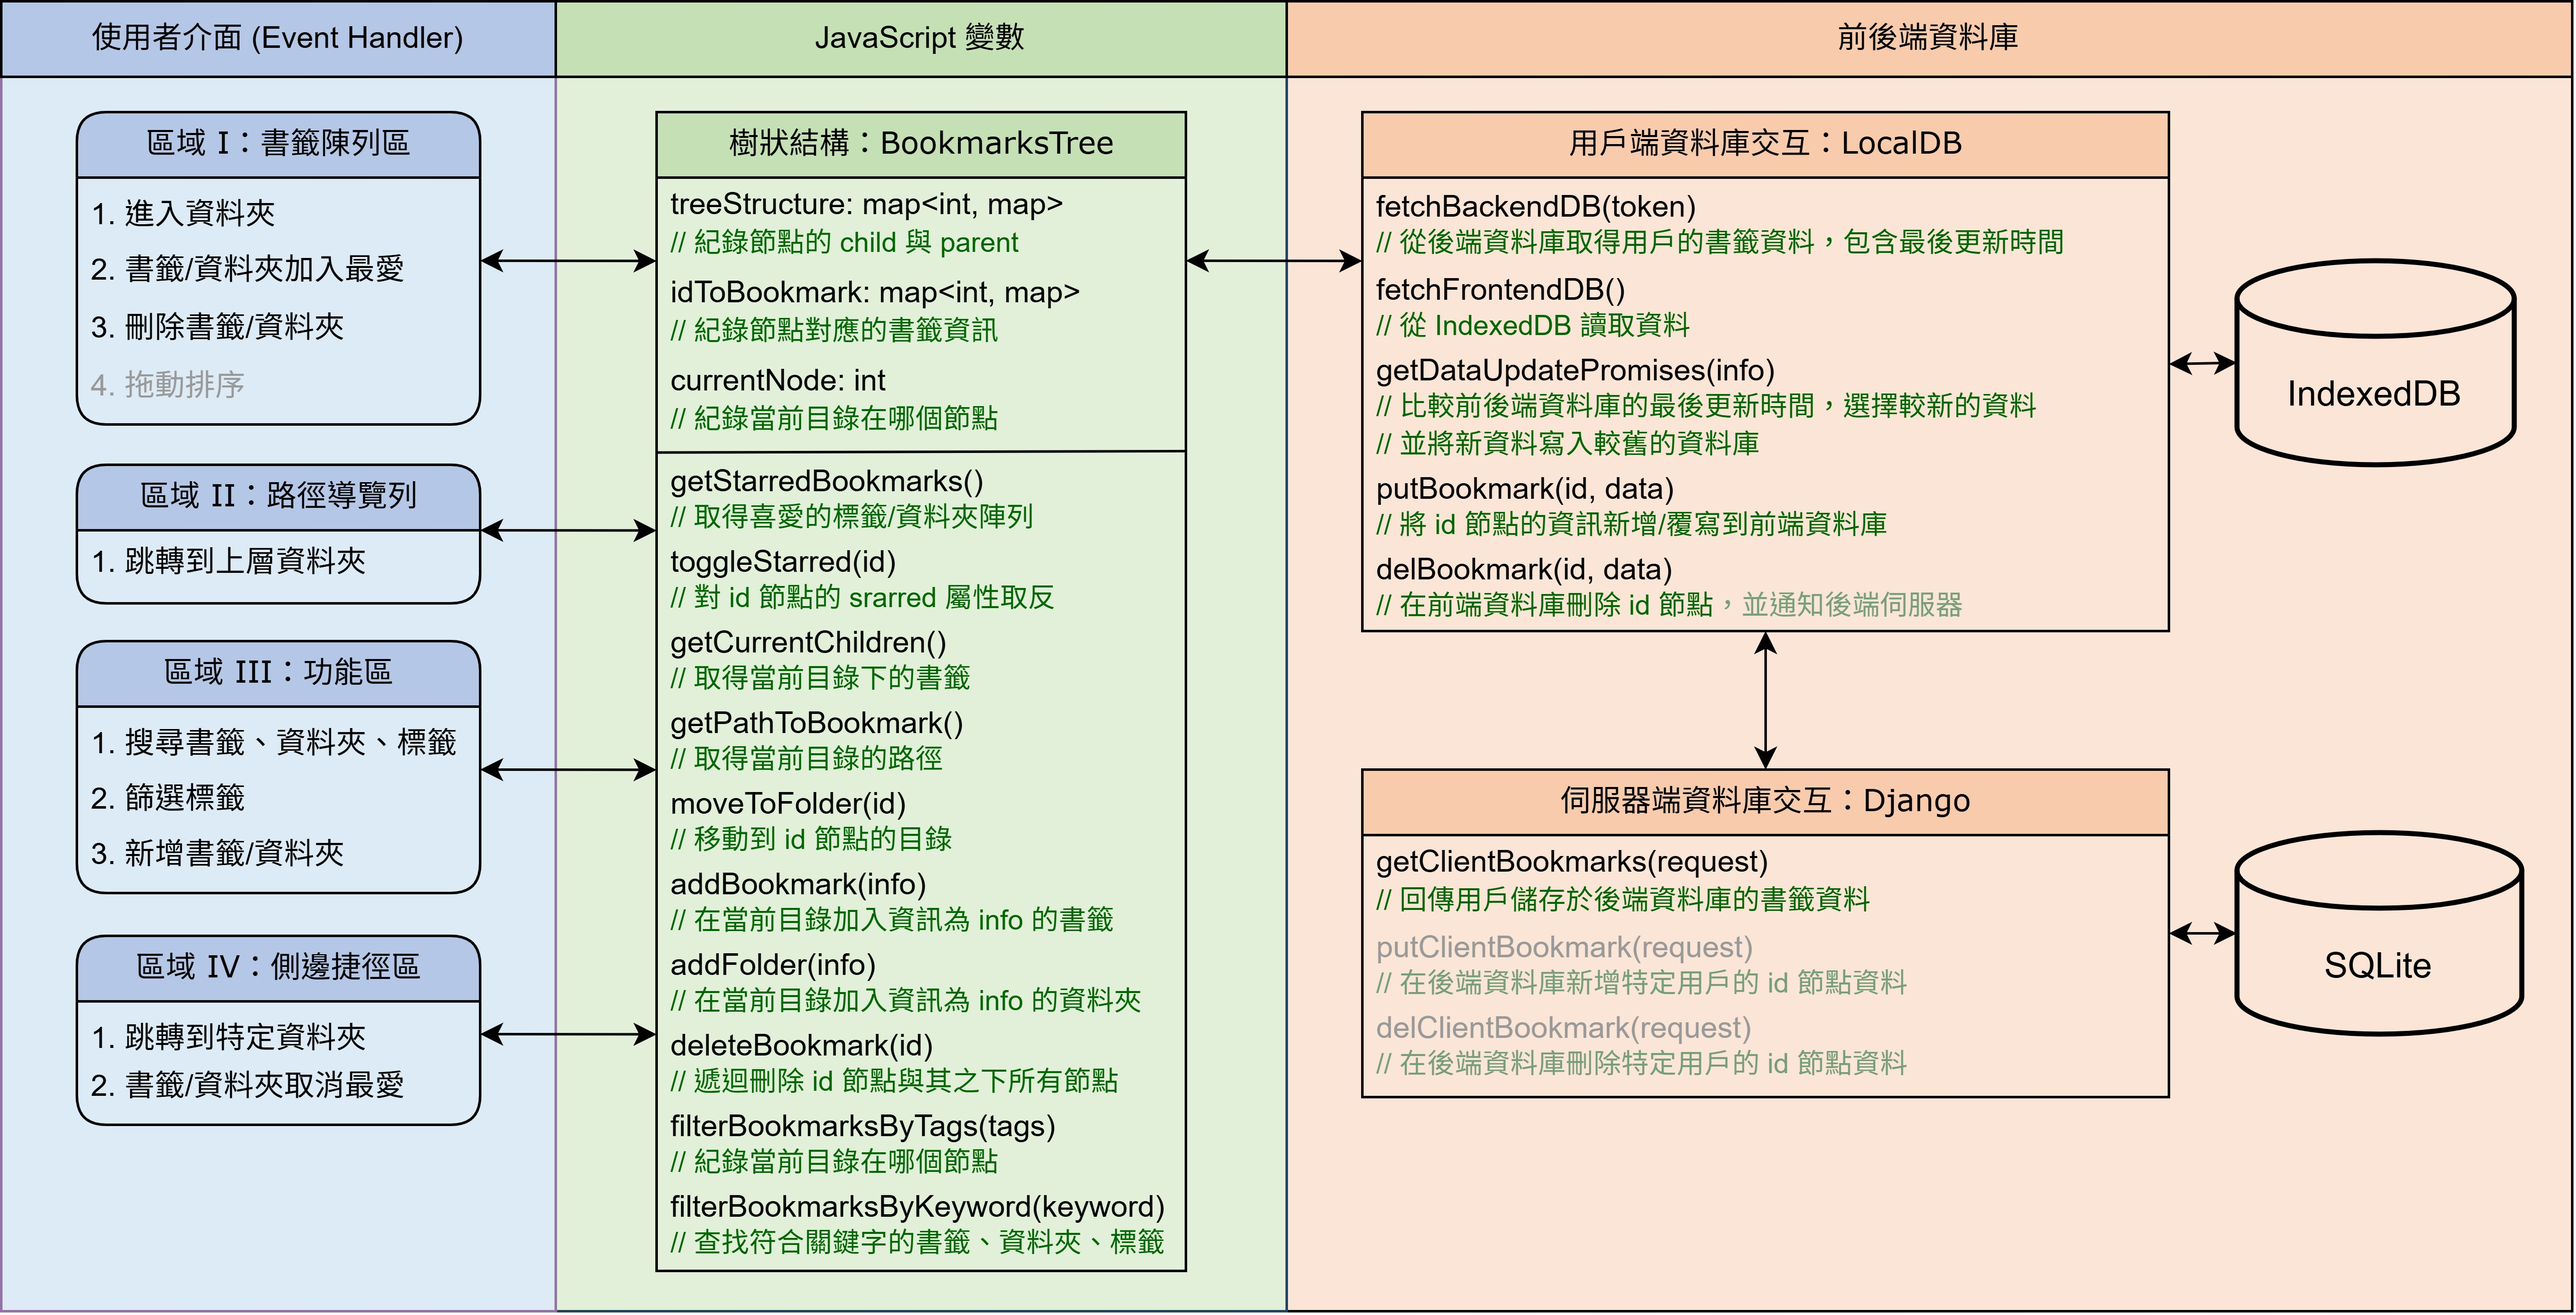
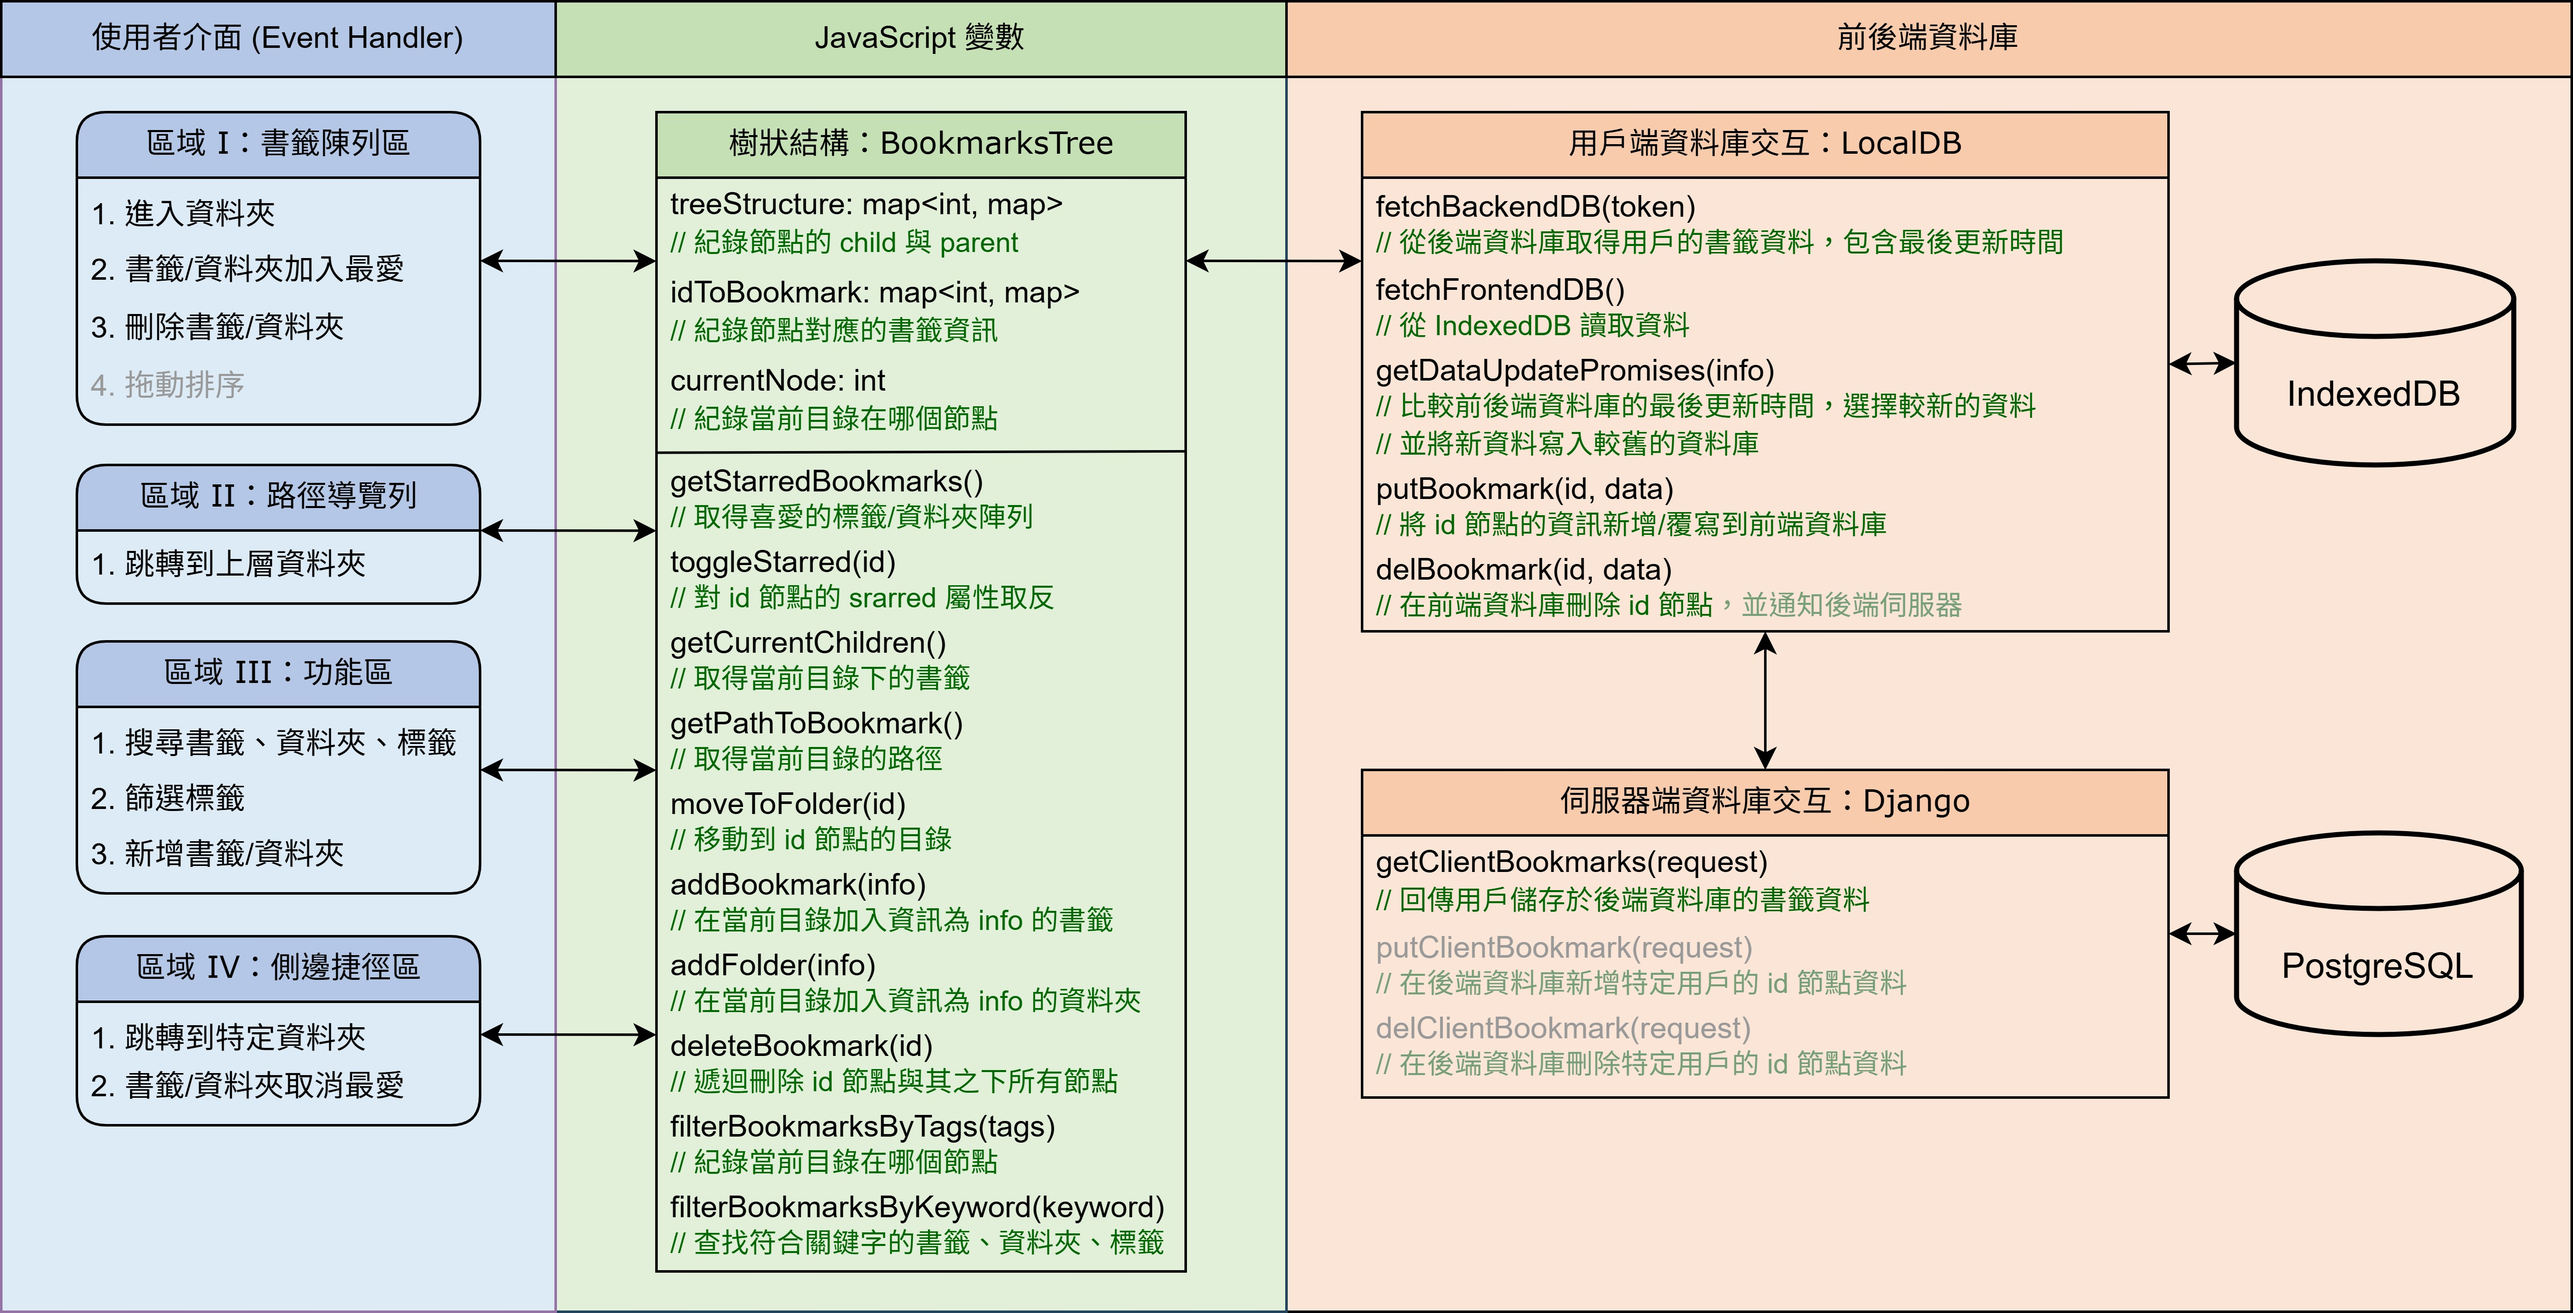
modify Week07.md

diff --git a/HW_Report/Week07.md b/HW_Report/Week07.md
@@ -1,23 +1,23 @@
 # 進度報告 - Team 15, Week 7
 
-在這次作業中，我們將記錄標籤/資料夾結構的 `BookmarksTree` 儲存到前端資料庫 [IndexedDB](https://developer.mozilla.org/zh-TW/docs/Web/API/IndexedDB_API)，讓用戶在重啟瀏覽器後仍能保留內容。此外，我們也使用 Django 搭配 PostgreSQL 在後端儲存用戶書籤，為下週開發 **跨裝置同步** 功能做準備。
+在這次作業中，我們將記錄標籤/資料夾結構的 `BookmarksTree` 儲存到前端資料庫 [IndexedDB](https://developer.mozilla.org/zh-TW/docs/Web/API/IndexedDB_API)，讓用戶在重啟瀏覽器後仍能保留內容。此外，我們也使用 Django 搭配 PostgreSQL 在後端儲存用戶書籤，為後續開發 **跨裝置同步** 功能做準備。
 
-在 UI/UX 改進部分，我們嘗試基於 [Swapy](https://github.com/TahaSh/swapy)，讓書籤可以像手機 App 一樣透過拖曳改變順序。此功能目前已能在頁面上運作，但尚未與前後端資料庫串接，因此暫時位於 GitHub 的另一個 Branch：[draggable](https://github.com/yoyoisaman/Team15/tree/draggable)。
+在 UI/UX 改進部分，我們嘗試基於 [Swapy](https://github.com/TahaSh/swapy)，讓書籤可以像手機 App 一樣透過拖曳改變順序。此功能目前已能在頁面上運作，但尚未與前後端資料庫串接，因此暫時放在 GitHub branch [GitHub branch](https://github.com/yoyoisaman/Team15/tree/draggable)。
 
 
 ## 課內技術練習
 
-本專案目前的整體架構如下圖（淺色文字代表尚未完成）。我們這週實作圖中右方橘色區塊的「前後端資料庫」，以下將分為講解 **前端資料庫（IndexedDB）** 與 **後端資料庫（PostgreSQL）** 兩大部分。
+本專案目前的整體架構如下圖（淺色文字代表尚未完成）。我們這兩週實作了圖中橘色區塊的「前後端資料庫」，以下將分為 **前端資料庫（IndexedDB）** 與 **後端資料庫（PostgreSQL）** 兩大部分說明。
 
 ![flow.jpg](report_imgs/Week07/flow.jpg)
 
 ### 後端資料庫（PostgreSQL）
 
-我們使用上課教的 Django 建立後端伺服器，並將用戶的書籤資料儲存於 PostgreSQL 資料庫中。
+我們使用課堂所教的 Django 架設後端伺服器，並將用戶的書籤資料儲存於 PostgreSQL 資料庫中。
 
-當用戶進入網頁，前端會向後端伺服器發送一個初始化請求，伺服器會根據用戶的 `token` 回傳相對應的書籤資料與最後修改時間（用以比對前端資料庫是否過舊）。這使得用戶得以跨裝置使用我們的網站，因為每次更動都會透過伺服器儲存，並同步到所有裝置上。
+當用戶進入網頁時，前端會向後端伺服器發送初始化請求，伺服器根據用戶的 `token` 回傳對應的書籤資料與最後修改時間（用以比對前端資料庫是否過舊）。這讓用戶可以跨裝置使用網站，因為每次操作都會儲存到伺服器，並同步到所有裝置上。
 
-後端資料庫包含兩個表格，一個紀錄用戶的最後上傳時間，另一個則記錄用戶的書籤資料，格式如下：
+後端資料庫包含兩個表格，一個紀錄用戶的最後上傳時間，另一個紀錄用戶的書籤資料，格式如下：
 
 | 欄位名稱    | 型別           | 說明               |
 |-------------|----------------|--------------------|
@@ -30,29 +30,30 @@
 | parent_id   | INTEGER         | 節點的 parent      |
 | children_id | JSON            | 節點的 child       |
 
-[Views.py](../backend/api/views.py) 會調用這個表格的資料，並轉換為對應 `BookmarksTree` 物件中變數 `treeStructure` 與 `bookmarks` 的格式，附加上最後修改時間後回傳給使用者。
+[Views.py](../backend/api/views.py) 會調用這個表格的資料，並轉換為 `BookmarksTree` 物件中 `treeStructure` 與 `bookmarks` 的格式，附加最後修改時間後回傳給使用者。
 
 ### 前端資料庫（IndexedDB）
 
-IndexedDB 是瀏覽器內建的本地端資料庫，它可以儲存的資料量比 localStorage 多非常多，而且支援索引，能夠快速查詢特定資料。由於 `BookmarksTree` 包含書籤的詳細資訊，資料量可能很大，因此我們採用 IndexedDB 在用戶本地端儲存書籤資訊。
+IndexedDB 是瀏覽器內建的本地端資料庫，可儲存比 localStorage 更多的資料，且支援索引功能，能快速查詢特定資料。由於 `BookmarksTree` 包含大量書籤資訊，因此我們採用 IndexedDB 在用戶本地端儲存書籤資料。
 
-在使用者進入網頁時，網頁會向後端請求書籤資料，並嘗試讀取 IndexedDB 中的 `treeStructure` 與 `bookmarks` 兩個表格。在比對最後修改時間後，較新的資料會被傳入 `BookmarksTree` 的 constructor 中，作為書籤的初始狀態。同時，如果 IndexedDB 的資料較舊，將會進行更新。
+當使用者進入網頁時，前端會向後端請求書籤資料，並讀取 IndexedDB 中的 `treeStructure` 與 `bookmarks` 表格。在比對最後修改時間後，會將較新的資料傳入 `BookmarksTree` 的 constructor 中，作為書籤的初始狀態。如果 IndexedDB 中的資料較舊或不存在，系統也會自動更新。
 
-由於這週我們著重在建立 Django 伺服器與前後端溝通，此部分尚未最佳化。在課程進行到資料庫部分時，我們會將會會引入多用戶的帳號與 `token` 機制，由伺服器方主動驗證用戶端的資料是否過舊，從而節省回傳的流量與延遲。
+由於本週重點在於建立 Django 伺服器與前後端溝通，此部分尚未進行最佳化。未來課程進行到資料庫部分後，我們將在伺服器端導入多用戶帳號與 `token` 機制，讓伺服器主動驗證前端資料是否過舊，進一步節省流量與降低延遲。
 
 ## 額外相關技術
 
-### PostgreSQL
+### 1. PostgreSQL
 
-Django 預設使用 SQLite 作為後端資料庫，然而，SQLite 作為輕量級資料庫，不允許多用戶寫入，因而限制了擴展性，對於多用戶應用並不是好選擇。
+Django 預設使用 SQLite 作為後端資料庫，但由於 SQLite 屬於輕量級資料庫，不支援多用戶同時寫入，擴展性有限，因此不適合多用戶應用。
 
-此外，從記錄用戶書籤資料的表格結構中我們可以看出，其需要由兩個欄位 `(token,bid)` 去組合 Composite Primary Key 才能保證唯一。但 SQLite 並不支援 Composite Primary Key 的使用。
+PostgreSQL 除了支援多用戶寫入，還加強了對 JSON 資料型態的處理，因此我們選擇使用 PostgreSQL 取代 Django 預設的 SQLite 作為後端資料庫。為了方便測試，我們使用 [pgAdmin 4](https://www.pgadmin.org/) 作為 GUI 工具，並在 `docker-compose.yml` 中預設註解（關閉），如有需要可以自行啟用。
 
-基於上述兩個理由，我們採用能解決上述兩個問題且效率更高的 PostgreSQL 作為後端資料庫。為了便於測試，我們使用pgadmin4作為GUI，在 `docker-compose.yml` 中預設被註解，若有需要可以啟用。
 
-### 拖動排序功能
+### 2. 拖曳排序功能
 
-![draggable](draggable.gif)
+我們在另一個 [Branch](https://github.com/yoyoisaman/Team15/tree/draggable) 中，基於 [Swapy](https://github.com/TahaSh/swapy) 實作了拖曳排序功能，讓書籤可以像手機 App 一樣自由調整順序，如下圖所示。然而，由於此功能需要大幅重構現有程式碼，尚未來得及整合進 main branch，我們將於下次報告中說明完整邏輯。
+
+![draggable](report_imgs/Week07/draggable.gif)
 
 ## Docker Image Pull 連結及啟動方式
 
@@ -96,7 +97,44 @@ docker-compose up
 
 這段指令目的是同時啟動一個前端容器跟一個後端容器，並把它們配置好指定的 port 跟資料夾，就會完成整個應用環境的部署。以下進行布署說明:
 
-![img1](./report_imgs/Week07/img1.png)
+```yaml
+services:
+  frontend:
+    image: yoyoisaman/bookmark-frontend:v1  # 匯入的映像名稱
+    ports:
+      - "5174:5174"
+    volumes:
+      - ./frontend:/app/frontend
+      - /app/frontend/node_modules
+
+  backend:
+    image: yoyoisaman/bookmark-backend:v1  # 匯入的映像名稱
+    ports:
+      - "8000:8000"
+
+  postgres:
+    image: postgres:16
+    environment:
+      POSTGRES_DB: bookmarks
+      POSTGRES_USER: team15
+      POSTGRES_PASSWORD: '16'
+    ports:
+      - "5432:5432" 
+    volumes:
+      - ../postgres:/var/lib/postgresql/data  # Persist database data
+
+  # pgadmin:
+  #   image: dpage/pgadmin4:9.2.0
+  #   environment:
+  #     PGADMIN_DEFAULT_EMAIL: admin@example.com
+  #     PGADMIN_DEFAULT_PASSWORD: '16'
+  #   ports:
+  #     - '5050:80'
+  #   depends_on:
+  #     - postgres
+  #   volumes:
+  #     - ../pgadmin:/var/lib/pgadmin
+```
 
 frontend :
 
